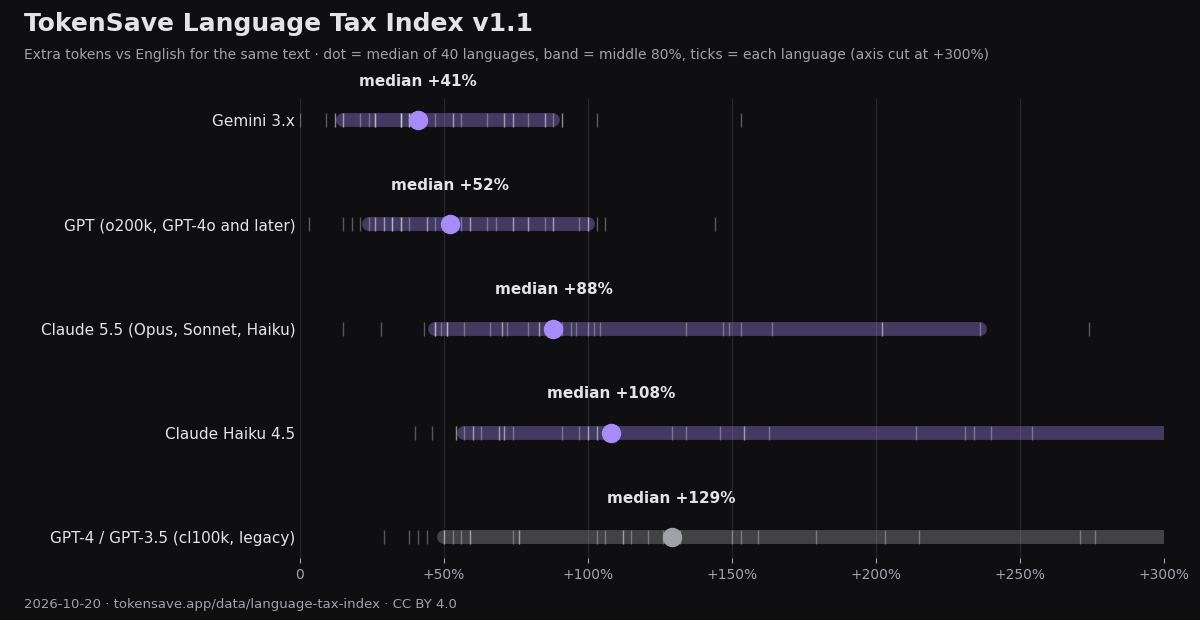
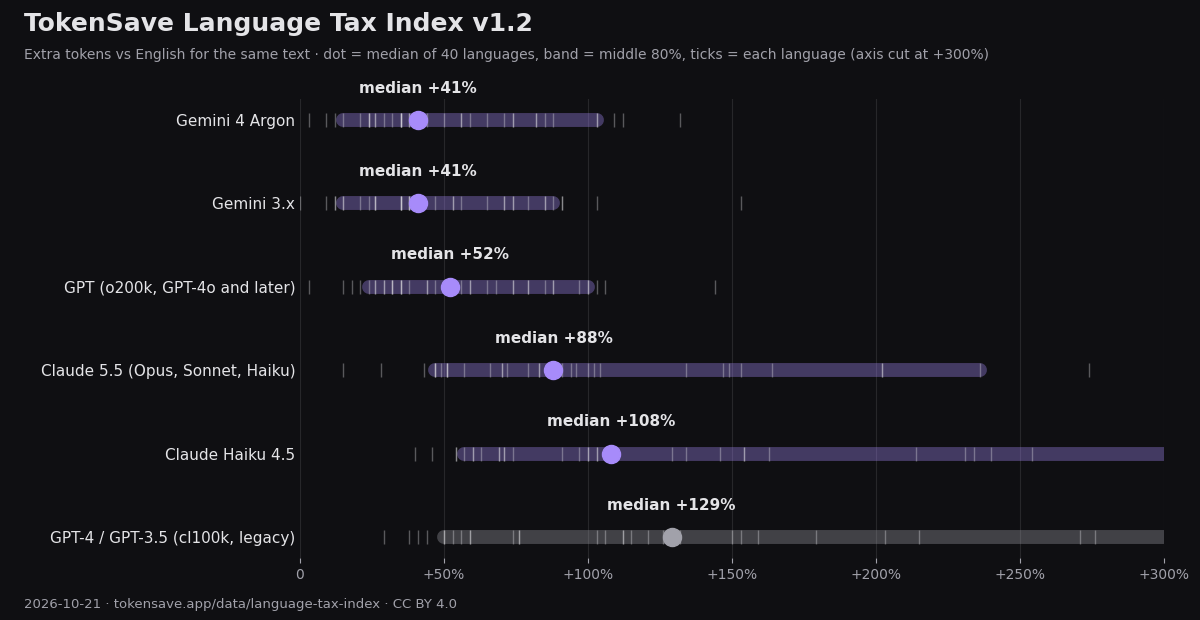
LTI v1.2 (Gemini 4 Argon) and Haiku 5.5 in the effort dataset (draft)
Claude-Session: https://claude.ai/code/session_0114J8oCXExe9ebHvH1UevYH

diff --git a/_source/src/data_pages.py b/_source/src/data_pages.py
@@ -1029,8 +1029,9 @@ EFF_MIRRORS = [("Zenodo", "https://zenodo.org/records/23446568"),
                ("Kaggle", "https://www.kaggle.com/datasets/johnisking/claude-effort-levels-tokens-time-and-cost"),
                ("GitHub", "https://github.com/johnisking/token-cost-by-language/tree/main/effort")]
 EFF_TITLE = "Claude effort levels: tokens, time and cost for the same coding task"
-EFF_DESC = ("Dataset: the same coding prompt run in Claude Code at every effort level of Claude Opus 5.5 (low to max) and at medium and high on Sonnet 5.5, "
-            "with time, output tokens, total tokens, API-equivalent cost and lines of code. Max used 160,033 output tokens and $5.25 against 6,299 and $0.56 at medium. Free CSV, CC BY 4.0.")
+EFF_UPDATED = "2026-10-21"
+EFF_DESC = ("Dataset: the same coding prompt run in Claude Code at every effort level of Claude Opus 5.5 and Haiku 5.5 (low to max, Haiku 3 runs each) and at medium and high on Sonnet 5.5, "
+            "with time, output tokens, total tokens, API-equivalent cost and lines of code. Opus max used 160,033 output tokens and $5.25 against 6,299 and $0.56 at medium; Haiku max cost about ten times its xhigh. Free CSV, CC BY 4.0.")
 
 
 def _eff():
@@ -1045,9 +1046,9 @@ def write_eff_files(dist):
     d = _eff()
     buf = io.StringIO()
     w = csv.writer(buf)
-    w.writerow(["model", "effort", "seconds", "output_tokens", "total_tokens", "cost_usd", "code_lines"])
+    w.writerow(["model", "effort", "run", "seconds", "output_tokens", "total_tokens", "cost_usd", "code_lines"])
     for r in d["rows"]:
-        w.writerow([r["model"], r["effort"], r["seconds"], r["output_tokens"], r["total_tokens"], f'{r["cost_usd"]:.2f}', r["code_lines"]])
+        w.writerow([r["model"], r["effort"], r.get("run", 1), r["seconds"], r["output_tokens"], r["total_tokens"], _usd(r["cost_usd"]).lstrip("$"), r["code_lines"]])
     open(os.path.join(dist, "data", "claude-effort-cost.csv"), "w", encoding="utf-8", newline="").write(buf.getvalue())
     meta = dict(title=EFF_TITLE, url=BASE + EFF_PATH, license="CC BY 4.0", measured=EFF_MEASURED, tool=d["tool"], prompt=d["prompt"],
                 citation=eff_citation(), rows=d["rows"])
@@ -1062,6 +1063,21 @@ def eff_ld():
                        EFF_CHART, [("claude-effort-cost.csv", "text/csv"), ("claude-effort-cost.json", "application/json")], doi=EFF_DOI, mirrors=EFF_MIRRORS)
 
 
+def _usd(v):
+    return f"${v:.2f}" if v >= 0.1 else f"${v:.4f}"
+
+
+def _haiku_eff(d):
+    out = []
+    for lv in ["low", "medium", "high", "xhigh", "max"]:
+        rs = [r for r in d["rows"] if r["model_name"] == "Haiku 5.5" and r["effort"] == lv]
+        if not rs: continue
+        m = lambda f: statistics.mean(r[f] for r in rs)
+        out.append(dict(effort=lv, n=len(rs), cost=m("cost_usd"), out=round(m("output_tokens")), seconds=round(m("seconds")),
+                        turns=m("turns"), lines=round(m("code_lines")), ok=sum(r["plays_ok"] for r in rs)))
+    return out
+
+
 def _dur(s):
     return f"{s} s" if s < 60 else f"{s // 60} min {s % 60} s"
 
@@ -1071,16 +1087,17 @@ def eff_html():
     by = {(r["model_name"], r["effort"]): r for r in d["rows"]}
     lo, me, hi, xh, mx = (by[("Opus 5.5", k)] for k in ["low", "medium", "high", "xhigh", "max"])
     sme, shi = by[("Sonnet 5.5", "medium")], by[("Sonnet 5.5", "high")]
+    H = {x["effort"]: x for x in _haiku_eff(d)}
     pct = lambda a, b: round((a / b - 1) * 100)
     trs = "\n".join(
-        f'          <tr><td>{esc(r["model_name"])} · {esc(r["effort"])}</td><td class="text-right tabular-nums">{_dur(r["seconds"])}</td>'
+        f'          <tr><td>{esc(r["model_name"])} · {esc(r["effort"])}{" · run " + str(r["run"]) if "run" in r else ""}</td><td class="text-right tabular-nums">{_dur(r["seconds"])}</td>'
         f'<td class="text-right tabular-nums">{r["output_tokens"]:,}</td><td class="text-right tabular-nums">{r["total_tokens"]:,}</td>'
-        f'<td class="text-right tabular-nums">${r["cost_usd"]:.2f}</td><td class="text-right tabular-nums">{r["code_lines"]:,}</td></tr>'
+        f'<td class="text-right tabular-nums">{_usd(r["cost_usd"])}</td><td class="text-right tabular-nums">{r["code_lines"]:,}</td></tr>'
         for r in d["rows"])
     head = ['<th>Model · effort</th>', '<th class="text-right">Time</th>', '<th class="text-right">Output tokens</th>', '<th class="text-right">Total tokens</th>', '<th class="text-right">Cost</th>', '<th class="text-right">Lines of code</th>']
     return _head("Claude effort levels: what low, medium, high, xhigh and max cost",
                  f'<strong>The same coding task used {me["output_tokens"]:,} output tokens and ${me["cost_usd"]:.2f} at medium effort on Claude Opus 5.5, and {mx["output_tokens"]:,} tokens and ${mx["cost_usd"]:.2f} at max.</strong> High cost only {pct(hi["cost_usd"], me["cost_usd"])}% more than medium; the jump starts at xhigh.',
-                 f'Measured {EFF_MEASURED} · Opus 5.5 at 5 levels, Sonnet 5.5 at 2 · License <a href="{LICENSE}">CC BY 4.0</a> · Write-up: <a href="/blog/claude-opus-5-5-effort">Claude Opus 5.5 effort levels tested</a>',
+                 f'Measured {EFF_MEASURED}, Haiku 5.5 added {EFF_UPDATED} · Opus 5.5 and Haiku 5.5 at 5 levels, Sonnet 5.5 at 2 · License <a href="{LICENSE}">CC BY 4.0</a> · Write-up: <a href="/blog/claude-opus-5-5-effort">Claude Opus 5.5 effort levels tested</a>',
                  [("claude-effort-cost.csv", "CSV"), ("claude-effort-cost.json", "JSON")],
                  EFF_CHART, "Output tokens and cost for the same task at each Claude effort level", doi=EFF_DOI, mirrors=EFF_MIRRORS) + f'''      <h2>Key findings</h2>
       <ul>
@@ -1088,7 +1105,12 @@ def eff_html():
         <li><strong>High is the best value step.</strong> Output tokens rose {pct(hi["output_tokens"], me["output_tokens"])}% ({me["output_tokens"]:,} to {hi["output_tokens"]:,}) but cost only {pct(hi["cost_usd"], me["cost_usd"])}% more, because most of each request is input that does not change.</li>
         <li><strong>Costs jump from xhigh.</strong> xhigh cost {pct(xh["cost_usd"], me["cost_usd"])}% more than medium and max {pct(mx["cost_usd"], me["cost_usd"])}% more. Max used {mx["output_tokens"]:,} output tokens against {me["output_tokens"]:,} at medium and took {_dur(mx["seconds"])}.</li>
         <li><strong>Sonnet 5.5 is cheaper per run, not just per token.</strong> At the same effort it used {abs(pct(sme["output_tokens"], me["output_tokens"]))}% fewer output tokens than Opus 5.5 and cost {abs(pct(sme["cost_usd"], me["cost_usd"]))}% less at medium and {abs(pct(shi["cost_usd"], hi["cost_usd"]))}% less at high.</li>
+        <li><strong>New: Haiku 5.5 at every level, three runs each.</strong> Average cost went from {_usd(H["low"]["cost"])} at low to {_usd(H["xhigh"]["cost"])} at xhigh, then {_usd(H["max"]["cost"])} at max ({pct(H["max"]["cost"], H["xhigh"]["cost"])}% more than xhigh). At max Haiku wrote its own test script and ran it, which took {H["max"]["turns"]:.0f} turns instead of {H["xhigh"]["turns"]:.0f}; each turn re-reads the conversation. Even so, Haiku at max cost {abs(pct(H["max"]["cost"], lo["cost_usd"]))}% less than Opus 5.5 at low.</li>
+        <li><strong>Every Haiku game passed at every level.</strong> We played all 15 with a script: each kept score, reached level 2 and counted down three lives ({sum(x["ok"] for x in H.values())} of {sum(x["n"] for x in H.values())}). Higher effort wrote longer code ({H["low"]["lines"]} lines on average at low, {H["max"]["lines"]} at max), not more working games.</li>
       </ul>
+      <h2>Haiku 5.5 by effort level (average of 3 runs)</h2>
+{_table(['<th>Effort</th>', '<th class="text-right">Cost</th>', '<th class="text-right">Output tokens</th>', '<th class="text-right">Time</th>', '<th class="text-right">Turns</th>', '<th class="text-right">Lines</th>', '<th class="text-right">Games passed</th>'], chr(10).join(
+        f'          <tr><td>{x["effort"]}</td><td class="text-right tabular-nums">{_usd(x["cost"])}</td><td class="text-right tabular-nums">{x["out"]:,}</td><td class="text-right tabular-nums">{_dur(x["seconds"])}</td><td class="text-right tabular-nums">{x["turns"]:.1f}</td><td class="text-right tabular-nums">{x["lines"]}</td><td class="text-right tabular-nums">{x["ok"]}/{x["n"]}</td></tr>' for x in H.values()))}
       <h2>All runs</h2>
 {_table(head, trs)}      <h2>Method</h2>
       <ul>
@@ -1096,10 +1118,11 @@ def eff_html():
         <li>Run once per effort level in Claude Code (<code>claude -p --effort …</code>), each in its own empty folder.</li>
         <li>Tokens and cost from <a href="https://github.com/ryoppippi/ccusage">ccusage</a> at API prices; time from start and end timestamps; lines counted in the finished <code>index.html</code>.</li>
         <li>All seven games ran without errors and had every requested feature; screenshots and a review of each are in the <a href="/blog/claude-opus-5-5-effort">write-up</a>.</li>
+        <li>Haiku 5.5 (added {EFF_UPDATED}): Claude Code 2.1.295, <code>claude -p --model claude-haiku-5-5 --effort …</code> with no MCP servers, three runs per level. Tokens and cost from Claude Code&rsquo;s own usage report at list prices. Each game was played by a script in a headless browser to check the score, level 2 and three lives.</li>
       </ul>
       <h2>Limitations</h2>
       <ul>
-        <li>One run per level and one task. Runs vary, especially at high effort levels; treat the numbers as an order of magnitude, not a fixed price.</li>
+        <li>One run per level for Opus and Sonnet, three for Haiku, and one task. Runs vary, especially at high effort levels; treat the numbers as an order of magnitude, not a fixed price.</li>
         <li>Costs are API-equivalent. On a Pro or Max plan the same runs use up your usage limit instead of money.</li>
         <li>Max effort tried to run an automated test that needed permission, which added time.</li>
       </ul>
@@ -1888,12 +1911,12 @@ def har_html():
 
 # ---- TokenSave Language Tax Index (derived from datasets 1 and 2; versioned, re-measured when new models ship) ----
 LTI_PATH = "/data/language-tax-index"
-LTI_VERSION = "1.1"
-LTI_DATE = "2026-10-20"
+LTI_VERSION = "1.2"
+LTI_DATE = "2026-10-21"
 LTI_CHART = "/language-tax-index-chart.png"
 LTI_TITLE = "TokenSave Language Tax Index: extra tokens per language on Claude, Gemini and GPT"
 LTI_DESC = ("How many more tokens the same text needs in 40 languages than in English, per model. "
-            "Version 1.1 (October 2026): median +41% on Gemini, +52% on GPT, +88% on Claude 5.5 (Opus, Sonnet and Haiku 5.5). Updated when new models ship. CSV, CC BY 4.0.")
+            "Version 1.2 (October 2026): median +41% on Gemini 3.x and Gemini 4 Argon, +52% on GPT, +88% on Claude 5.5 (Opus, Sonnet and Haiku 5.5). Updated when new models ship. CSV, CC BY 4.0.")
 # (key, label, family, current) - the legacy GPT-4 tokenizer stays as history
 LTI_MODELS = [("gemini", "Gemini 3.x", "Google", True), ("gpt", "GPT (o200k, GPT-4o and later)", "OpenAI", True),
               ("claude55", "Claude 5.5 (Opus, Sonnet, Haiku)", "Anthropic", True), ("claude45", "Claude Haiku 4.5", "Anthropic", True),
@@ -1911,7 +1934,8 @@ def _lti_extra():
 LTI_EXTRA = _lti_extra()
 LTI_MODELS = LTI_MODELS[:-1] + [(m["key"], m["label"], m["family"], True) for m in LTI_EXTRA] + LTI_MODELS[-1:]
 # Version history: (version, date, what changed). Add a row every time the index is re-measured.
-LTI_HISTORY = [("1.1", "2026-10-20", "Added Claude Haiku 5.5 (released 2026-10-07), measured on all 41 prompts: identical counts to Opus and Sonnet 5.5 in every language, so it joins the Claude 5.5 column. Versus Haiku 4.5, English needs 34% more tokens (35 to 47) while Korean, Japanese, Chinese, Hindi, Russian and Ukrainian are unchanged."),
+LTI_HISTORY = [("1.2", "2026-10-21", "Added Gemini 4 Argon, measured on all 41 prompts in Google AI Studio: a new tokenizer. Its median tax equals Gemini 3.x (+41%), but East Asian languages got cheaper (Korean 48 to 41 tokens, Japanese 46 to 42) and most Indian languages more expensive (Kannada 58 to 72, Hindi 41 to 48, Tamil 52 to 63). English is unchanged at 34."),
+               ("1.1", "2026-10-20", "Added Claude Haiku 5.5 (released 2026-10-07), measured on all 41 prompts: identical counts to Opus and Sonnet 5.5 in every language, so it joins the Claude 5.5 column. Versus Haiku 4.5, English needs 34% more tokens (35 to 47) while Korean, Japanese, Chinese, Hindi, Russian and Ukrainian are unchanged."),
                ("1.0", "2026-10-19", "First release: 41 languages × 4 current tokenizers plus the legacy GPT-4 tokenizer, from our 2026-09-30 and 2026-10-17 measurements.")]
 # Models released after the last measurement, queued for the next version.
 LTI_PENDING = []
@@ -2002,7 +2026,7 @@ def lti_html():
     return f'''    <article class="prose-ts max-w-3xl mx-auto bg-zinc-900/60 border border-zinc-800 rounded-2xl p-6 sm:p-8">
       <p class="not-prose text-xs font-semibold uppercase tracking-wider text-violet-300"><a href="/data/" class="no-underline" style="text-decoration:none">TokenSave Data</a> · Index · v{LTI_VERSION}</p>
       <h1 class="text-3xl font-extrabold text-white">TokenSave Language Tax Index</h1>
-      <p class="mt-3 text-lg text-zinc-200"><strong>The “language tax” is how many more tokens the same text needs in your language than in English.</strong> On today's models the median across 40 languages is {_pct(sm["gemini"]["median"])} on Gemini, {_pct(sm["gpt"]["median"])} on GPT and {_pct(sm["claude55"]["median"])} on Claude 5.5 (Opus, Sonnet and Haiku). API prices, context windows and token-based limits all scale with it.</p>
+      <p class="mt-3 text-lg text-zinc-200"><strong>The “language tax” is how many more tokens the same text needs in your language than in English.</strong> On today's models the median across 40 languages is {_pct(sm["gemini_4_argon"]["median"])} on Gemini (3.x and 4 Argon alike), {_pct(sm["gpt"]["median"])} on GPT and {_pct(sm["claude55"]["median"])} on Claude 5.5 (Opus, Sonnet and Haiku). API prices, context windows and token-based limits all scale with it.</p>
       <p class="text-sm text-zinc-400">Version {LTI_VERSION} · {LTI_DATE} · 41 languages · {len(cur)} current tokenizers + 1 legacy · License <a href="{LICENSE}">CC BY 4.0</a> · Re-measured when new models ship</p>
       <div class="not-prose flex flex-wrap gap-2 my-4">
         <a href="/data/language-tax-index.csv" {BTN} style="text-decoration:none">⬇ CSV</a>
@@ -2015,9 +2039,10 @@ def lti_html():
       <img src="{LTI_CHART}" alt="TokenSave Language Tax Index: median extra tokens versus English by model, with the range across 40 languages" width="1200" loading="lazy">
       <h2>What the index shows</h2>
       <ul>
-        <li><strong>Every model taxes non-English text, but by very different amounts.</strong> Gemini has the smallest median tax, Claude the largest. Korean is {_pct(ko["gemini_tax"])} on Gemini, {_pct(ko["gpt_tax"])} on GPT and {_pct(ko["claude55_tax"])} on Claude 5.5; Ukrainian {_pct(uk["gemini_tax"])}, {_pct(uk["gpt_tax"])} and {_pct(uk["claude55_tax"])}.</li>
+        <li><strong>Every model taxes non-English text, but by very different amounts.</strong> Gemini has the smallest median tax, Claude the largest. Korean is {_pct(ko["gemini_4_argon_tax"])} on Gemini 4 Argon, {_pct(ko["gpt_tax"])} on GPT and {_pct(ko["claude55_tax"])} on Claude 5.5; Ukrainian {_pct(uk["gemini_4_argon_tax"])}, {_pct(uk["gpt_tax"])} and {_pct(uk["claude55_tax"])}.</li>
         <li><strong>The tax has fallen over time.</strong> On the legacy GPT-4 tokenizer (cl100k) the median was {_pct(sm["cl100k"]["median"])}; on the current o200k tokenizer it is {_pct(sm["gpt"]["median"])}. Hindi went from {_pct(hi["cl100k_tax"])} to {_pct(hi["gpt_tax"])}.</li>
         <li><strong>A lower tax is not always a cheaper model.</strong> The index compares each language with English on the same model. Claude 5.5 also needs more tokens for English itself ({sm["claude55"]["en"]} for our prompt, against {sm["gpt"]["en"]} on GPT and {sm["gemini"]["en"]} on Gemini), and prices per token differ. Use the <a href="/">token calculator</a> to compare real costs.</li>
+        <li><strong>New in v1.2: Gemini 4 Argon moved the tax between languages.</strong> Its median is the same as Gemini 3.x ({_pct(sm["gemini_4_argon"]["median"])}) and English is unchanged at {by["en"]["gemini_4_argon"]} tokens, but {sum(r["gemini_4_argon"] < r["gemini"] for r in rows)} of 41 prompts got cheaper and {sum(r["gemini_4_argon"] > r["gemini"] for r in rows)} more expensive. Korean fell from {by["ko"]["gemini"]} to {by["ko"]["gemini_4_argon"]} tokens ({_pct(round((by["ko"]["gemini_4_argon"] / by["ko"]["gemini"] - 1) * 100))}) and Japanese from {by["ja"]["gemini"]} to {by["ja"]["gemini_4_argon"]} ({_pct(round((by["ja"]["gemini_4_argon"] / by["ja"]["gemini"] - 1) * 100))}), while Kannada rose from {by["kn"]["gemini"]} to {by["kn"]["gemini_4_argon"]} ({_pct(round((by["kn"]["gemini_4_argon"] / by["kn"]["gemini"] - 1) * 100))}), Hindi from {by["hi"]["gemini"]} to {by["hi"]["gemini_4_argon"]} ({_pct(round((by["hi"]["gemini_4_argon"] / by["hi"]["gemini"] - 1) * 100))}) and Tamil from {by["ta"]["gemini"]} to {by["ta"]["gemini_4_argon"]} ({_pct(round((by["ta"]["gemini_4_argon"] / by["ta"]["gemini"] - 1) * 100))}).</li>
         <li><strong>New in v1.1: Haiku 5.5 has a smaller tax than Haiku 4.5, because English got more expensive.</strong> Haiku 5.5 counts exactly like Opus and Sonnet 5.5 in all 41 languages. Its median tax is {_pct(sm["claude55"]["median"])} against {_pct(sm["claude45"]["median"])} on Haiku 4.5, but no language got cheaper: English rose from {by["en"]["claude45"]} to {by["en"]["claude55"]} tokens ({_pct(round((by["en"]["claude55"] / by["en"]["claude45"] - 1) * 100))}), Spanish {_pct(round((by["es"]["claude55"] / by["es"]["claude45"] - 1) * 100))} and German {_pct(round((by["de"]["claude55"] / by["de"]["claude45"] - 1) * 100))}, while Korean ({by["ko"]["claude55"]}), Japanese, Chinese, Hindi, Russian and Ukrainian stayed exactly the same. Across all 41 prompts Haiku 5.5 uses {round((sum(r["claude55"] for r in rows) / sum(r["claude45"] for r in rows) - 1) * 100)}% more tokens. At list prices ($0.10 vs $1 per million input tokens) it is still far cheaper per prompt.</li>
         <li><strong>It matters most for chat, documents and API work, much less for coding agents.</strong> In our coding test the prompt language moved input tokens by about 1%, because the agent's own instructions dwarf the prompt (<a href="/data/ai-coding-prompt-language">data</a>).</li>
       </ul>
@@ -2028,7 +2053,7 @@ def lti_html():
       <ul>
         <li><strong>Definition:</strong> tax = tokens for the language ÷ tokens for English on the same tokenizer − 1, rounded to a whole percent. The headline number is the median over the 40 non-English languages.</li>
         <li><strong>Text:</strong> one everyday instruction (summarize a customer email and suggest a reply) translated into 41 languages. The prompts and raw counts are in the two source datasets: <a href="{LANG_PATH}">GPT tokenizers</a> (DOI <a href="https://doi.org/{LANG_DOI}">{LANG_DOI}</a>) and <a href="{MULTI_PATH}">Claude, Gemini and GPT</a> (DOI <a href="https://doi.org/{MULTI_DOI}">{MULTI_DOI}</a>).</li>
-        <li><strong>Counting:</strong> GPT with tiktoken; Claude from Claude Code usage reports minus a one-character baseline; Gemini with the Google AI Studio token counter. Models that share a tokenizer share a column (Claude Opus, Sonnet and Haiku 5.5 gave identical counts in all 41 languages, as did Gemini 3.8 Flash and 3.1 Pro).</li>
+        <li><strong>Counting:</strong> GPT with tiktoken; Claude from Claude Code usage reports minus a one-character baseline; Gemini with the Google AI Studio token counter. Models that share a tokenizer share a column (Claude Opus, Sonnet and Haiku 5.5 gave identical counts in all 41 languages, as did Gemini 3.8 Flash and 3.1 Pro). Gemini 4 Argon was counted in the same AI Studio counter, which adds a fixed 31 tokens on that model (the one-letter text &ldquo;a&rdquo; shows 32); we subtract it.</li>
       </ul>
       <h2>Update policy and version history</h2>
       <p>We re-measure the same 41 prompts when a model with a new tokenizer ships, add or replace its column, and publish a new version here with the date. Earlier versions stay in the history, so changes over time can be cited.</p>
@@ -2047,6 +2072,8 @@ def lti_html():
 
 # ---- Measurement log: newest first, shown on the data hub and the English home page ----
 CHANGELOG = [
+    ("2026-10-21", EFF_PATH, "Claude effort levels: Haiku 5.5 added, 15 games, max about ten times the cost of xhigh"),
+    ("2026-10-21", LTI_PATH, "Language Tax Index v1.2: Gemini 4 Argon in 41 languages, Korean 15% cheaper, Kannada 24% dearer than Gemini 3.x"),
     ("2026-10-21", "/data/claude-code-baseline-tokens-by-version", "Claude Code baseline tokens by version: +86% in ten months, then back to half the peak"),
     ("2026-10-21", "/data/text-as-image-token-cost", "Text as images (pxpipe) on Claude: 64% to 81% fewer tokens, but exact ids often lost"),
     ("2026-10-20", "/data/ai-coffee-break-cache-cost", "The coffee-break tax: the next Claude Code message after a 0 to 65 minute pause"),

diff --git a/_source/blog_data/charts_more.py b/_source/blog_data/charts_more.py
@@ -43,21 +43,26 @@ hbars([lab[k] for k in order], ser, [p[k] for k in order], "One page, PDF or pas
       "Input tokens for one page", "src/static/pdf-token-cost-chart.png", 2900, size=(12, 7.2), left=0.2)
 
 # 3. effort
-e = json.load(open('blog_data/effortdata/combined.json'))["rows"]
-fig, axes = plt.subplots(1, 2, figsize=(12, 6.6), dpi=100); fig.patch.set_facecolor(BG)
+import statistics
+e0 = json.load(open('blog_data/effortdata/combined.json'))["rows"]
+e = [r for r in e0 if r["model_name"] != "Haiku 5.5"]
+for lv in ["low", "medium", "high", "xhigh", "max"]:
+    rs = [r for r in e0 if r["model_name"] == "Haiku 5.5" and r["effort"] == lv]
+    if rs: e.append(dict(model_name="Haiku 5.5", effort=lv + " (avg of 3)", output_tokens=round(statistics.mean(r["output_tokens"] for r in rs)), cost_usd=statistics.mean(r["cost_usd"] for r in rs)))
+fig, axes = plt.subplots(1, 2, figsize=(12, 8.2), dpi=100); fig.patch.set_facecolor(BG)
 labels = [f'{r["model_name"]} · {r["effort"]}' for r in e][::-1]
-cols = ["#f59e0b" if r["model_name"].startswith("Opus") else "#38bdf8" for r in e][::-1]
-for ax, key, xl, fmt in [(axes[0], "output_tokens", "Output tokens", "{:,}"), (axes[1], "cost_usd", "Cost (USD, API prices)", "${:.2f}")]:
+cols = [{"Opus": "#f59e0b", "Sonnet": "#38bdf8", "Haiku": "#34d399"}[r["model_name"].split()[0]] for r in e][::-1]
+for ax, key, xl, fmt in [(axes[0], "output_tokens", "Output tokens", "{:,}"), (axes[1], "cost_usd", "Cost (USD, API prices)", None)]:
     ax.set_facecolor(BG); vals = [r[key] for r in e][::-1]
     ax.barh(range(len(vals)), vals, color=cols, height=0.6)
     mx = max(vals)
-    for i, v in enumerate(vals): ax.text(v + mx * 0.01, i, fmt.format(v), va='center', fontsize=9, color=MUTED)
+    for i, v in enumerate(vals): ax.text(v + mx * 0.01, i, fmt.format(v) if fmt else (f"${v:.2f}" if v >= 0.1 else f"${v:.3f}"), va='center', fontsize=9, color=MUTED)
     ax.set_yticks(range(len(vals))); ax.set_yticklabels(labels if ax is axes[0] else [""] * len(vals), color=FG, fontsize=11)
     ax.tick_params(axis='x', colors=MUTED); ax.set_xlabel(xl, color=MUTED, fontsize=11)
     for s in ax.spines.values(): s.set_visible(False)
     ax.grid(axis='x', color=GRID); ax.set_axisbelow(True); ax.set_xlim(0, mx * 1.18)
 fig.text(0.02, 0.955, "Same coding task at every effort level: tokens and cost", fontsize=17, fontweight='bold', color=FG)
-fig.text(0.02, 0.92, "Claude Code, one browser game per run · measured 2026-10-09 · tokensave.app/data · CC BY 4.0", fontsize=11, color=MUTED)
-plt.subplots_adjust(left=0.17, right=0.98, top=0.86, bottom=0.1, wspace=0.08)
+fig.text(0.02, 0.92, "Claude Code, one browser game per run · Opus and Sonnet measured 2026-10-09, Haiku 2026-10-21 · tokensave.app/data · CC BY 4.0", fontsize=11, color=MUTED)
+plt.subplots_adjust(left=0.235, right=0.98, top=0.86, bottom=0.1, wspace=0.08)
 plt.savefig("src/static/claude-effort-cost-chart.png", facecolor=BG); plt.close(fig)
 print("ok")

diff --git a/_source/blog_data/charts_lti.py b/_source/blog_data/charts_lti.py
@@ -5,7 +5,7 @@ sys.path.insert(0, 'src')
 import data_pages as D
 BG='#0f0f12'; FG='#e4e4e7'; MUTED='#a1a1aa'; GRID='#27272a'
 rows = D._lti_rows(); sm = D._lti_summary(rows)
-order = ["gemini", "gpt", "claude55", "claude45", "cl100k"]
+order = ["gemini_4_argon", "gemini", "gpt", "claude55", "claude45", "cl100k"]
 labels = [sm[k]["label"] for k in order]
 fig, ax = plt.subplots(figsize=(12, 6.2), dpi=100); fig.patch.set_facecolor(BG); ax.set_facecolor(BG)
 for y, k in enumerate(order):
